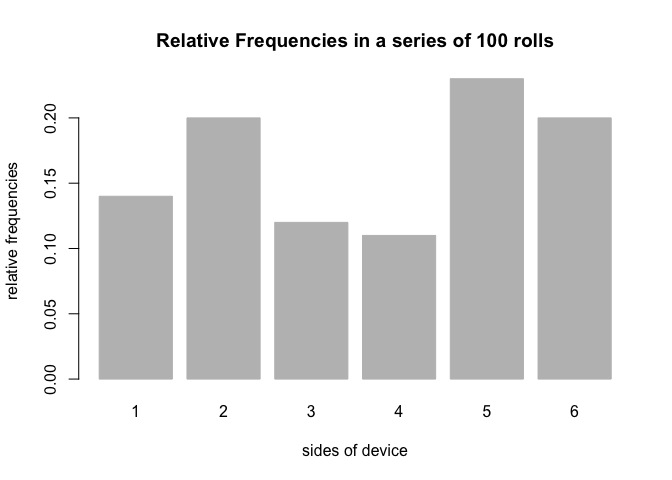
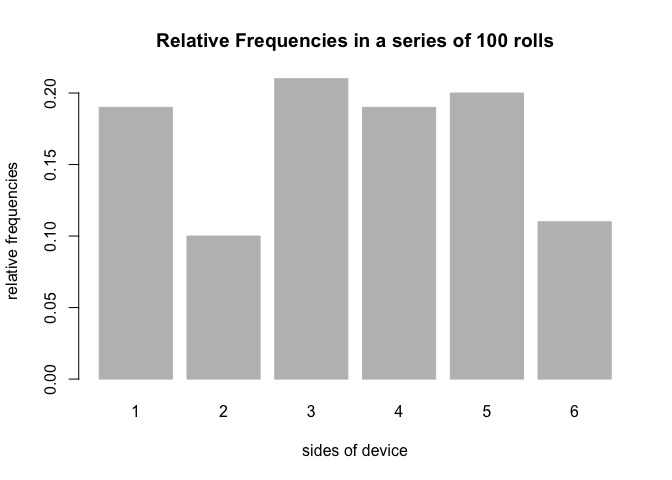
modified tutorial

diff --git a/workout03.md b/workout03.md
@@ -14,6 +14,10 @@ library(roller)
     ## 
     ##     plot
 
+``` r
+set.seed(123)
+```
+
 ### General Information
 
 This package is designed to simulate rolling a specificed `device()` a specified number of times.
@@ -60,7 +64,7 @@ roll(fair_coin, 2)
     ## object 'rolls' 
     ## 
     ## $rolls
-    ## [1] 2 2
+    ## [1] 2 1
 
 ``` r
 roll(tri_die, 100)
@@ -69,12 +73,12 @@ roll(tri_die, 100)
     ## object 'rolls' 
     ## 
     ## $rolls
-    ##   [1] "1" "3" "1" "2" "1" "1" "3" "1" "3" "2" "1" "2" "2" "1" "1" "2" "3"
-    ##  [18] "2" "2" "1" "3" "1" "2" "3" "3" "2" "2" "2" "1" "3" "3" "1" "2" "1"
-    ##  [35] "2" "3" "2" "3" "2" "1" "1" "2" "3" "2" "2" "1" "2" "1" "1" "3" "1"
-    ##  [52] "2" "3" "1" "2" "3" "3" "1" "3" "3" "3" "3" "3" "1" "1" "3" "3" "3"
-    ##  [69] "1" "2" "3" "2" "3" "3" "3" "1" "2" "1" "2" "2" "1" "2" "2" "3" "1"
-    ##  [86] "3" "3" "2" "3" "1" "1" "2" "2" "3" "2" "2" "1" "3" "3" "2"
+    ##   [1] "3" "1" "1" "2" "3" "1" "3" "3" "1" "3" "1" "3" "2" "1" "2" "2" "2"
+    ##  [18] "1" "1" "1" "3" "1" "3" "1" "3" "3" "2" "2" "1" "1" "1" "1" "2" "3"
+    ##  [35] "1" "2" "2" "2" "2" "3" "3" "3" "2" "2" "2" "3" "2" "1" "2" "3" "1"
+    ##  [52] "2" "3" "2" "2" "1" "1" "3" "3" "2" "3" "2" "1" "3" "1" "1" "1" "3"
+    ##  [69] "1" "3" "1" "2" "3" "2" "3" "3" "3" "2" "2" "1" "3" "1" "2" "3" "1"
+    ##  [86] "1" "1" "2" "2" "3" "3" "3" "2" "2" "1" "2" "3" "3" "3" "2"
 
  
 
@@ -89,3 +93,38 @@ plot(rolls100)
 ```
 
 ![](workout03_files/figure-markdown_github/unnamed-chunk-5-1.png)
+
+ 
+
+### Additional methods
+
+You can subset, replace, and add rolls using `[`, `[<-`, and `+`&lt; respectively:
+
+``` r
+die100 <- roll(die, 100)
+die100[30]
+```
+
+    ## [1] 4
+
+``` r
+die100[30] <- 2
+die200 <- die100 + 100
+summary(die200)
+```
+
+    ## summary "rolls"
+    ## 
+    ##   side count  prop
+    ## 1    1    33 0.165
+    ## 2    2    36 0.180
+    ## 3    3    35 0.175
+    ## 4    4    37 0.185
+    ## 5    5    25 0.125
+    ## 6    6    34 0.170
+
+``` r
+die200$total
+```
+
+    ## [1] 200
